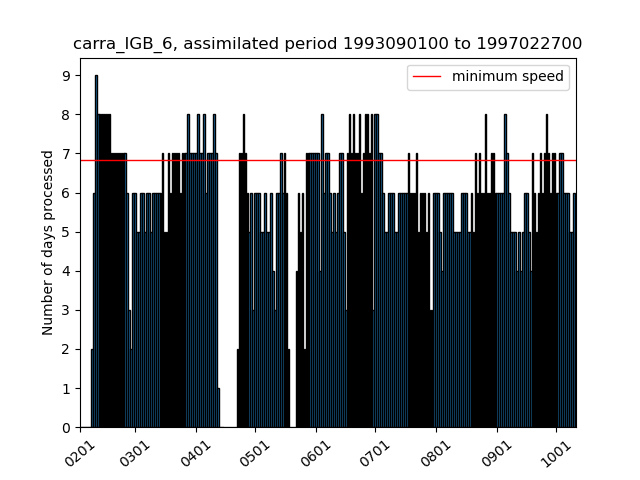
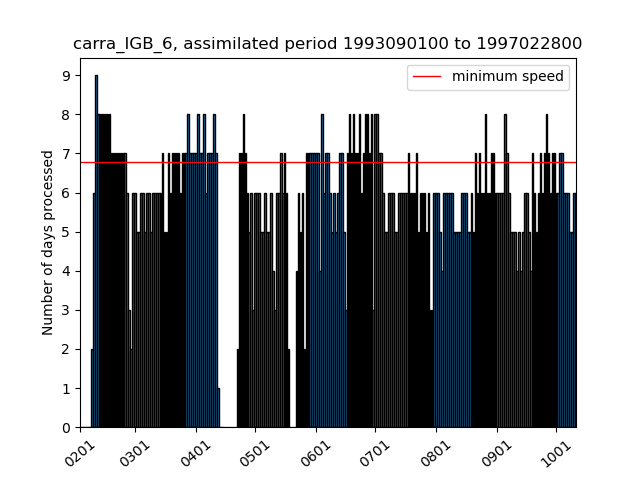
update repo

Changed region(s): [[0.125, 0.3125, 0.9062, 0.3438], [0.8438, 0.0625, 0.875, 0.0938]]

diff --git a/current_state_sims.html b/current_state_sims.html
@@ -2,18 +2,18 @@
 <h1>Estimated completion dates and simulation speeds</h1>
 <p>Stream (production) completion date based on 30d (7d) moving avg speed</p>
 <p><a href="https://docs.google.com/document/d/1zDKAxuEXYnWWYzT3SZnZwY5WW8nodUMeYRjAGz46coc/edit#">Details of the calculation of the completion dates</a></p>
-<p>Last update: 2021/10/12 00:38:07 UTC</p>
+<p>Last update: 2021/10/12 06:43:03 UTC</p>
 <p>Total progress CARRA: 99.55% <a href="https://hirlam.org/portal/CARRA/Progress/GanntChart_CARRA.html"> (see detailed progress meter in Gantt chart) </a></p>
 <p>Total progress PANARCTIC: 91.67% </p>
 <p><a href="https://hirlam.org/portal/CARRA/Progress/waiting_times.html"> Queue waiting times for all streams</a></p>
 <p><a href="https://hirlam.org/portal/CARRA/Progress/mars_status.html"> MARS archive throughput </a></p>
 <html><table border="1"><tr><th>expId</th><th>Current assimilated date</th><th>End date of stream </th><th> Completion date</th><th> Avg. throughput (7d) </th> <th>Avg. throughput (30d) </th> <th> Remarks</tr>
-<tr bgcolor="#33FF38"><td>carra_NE_3</td><td>2021070100</td><td>2021063021</td><td>2021101111</td><td>(0.14) days/day</td><td>(1.77) days/day</td><td>Stream finished</tr>
+<tr bgcolor="#33FF38"><td>carra_NE_3</td><td>2021070100</td><td>2021063021</td><td>2021101117</td><td>(0.14) days/day</td><td>(1.77) days/day</td><td>Stream finished</tr>
 <tr bgcolor="#33FF38"><td>carra_NE_4</td><td>1992090100</td><td>1992083021</td><td>Finished on 20210824</td><td>(0.0) days/day</td><td>(0.0) days/day</td><td>Stream finished</tr>
 <tr bgcolor="#33FF38"><td>carra_NE_5</td><td>1994090100</td><td>1994083021</td><td>Finished on 20210824</td><td>(0.0) days/day</td><td>(0.0) days/day</td><td>Stream finished</tr>
-<tr bgcolor="#33FF38"><td>carra_NE_6</td><td>1997070100</td><td>1997063021</td><td>2021101014</td><td>(0.0) days/day</td><td>(0.7) days/day</td><td>Stream finished</tr>
-<tr bgcolor="#33FF38"><td>carra_IGB_3</td><td>2021070100</td><td>2021063021</td><td>2021101111</td><td>(0.14) days/day</td><td>(1.87) days/day</td><td>Stream finished</tr>
+<tr bgcolor="#33FF38"><td>carra_NE_6</td><td>1997070100</td><td>1997063021</td><td>2021101020</td><td>(0.0) days/day</td><td>(0.7) days/day</td><td>Stream finished</tr>
+<tr bgcolor="#33FF38"><td>carra_IGB_3</td><td>2021070100</td><td>2021063021</td><td>2021101117</td><td>(0.14) days/day</td><td>(1.87) days/day</td><td>Stream finished</tr>
 <tr bgcolor="#33FF38"><td>carra_IGB_4</td><td>1992090100</td><td>1992083021</td><td>Finished on 20210907</td><td>(0.0) days/day</td><td>(0.0) days/day</td><td>Stream finished</tr>
-<tr bgcolor="#33FF38"><td>carra_IGB_5</td><td>1994090100</td><td>1994083021</td><td>2021101106</td><td>(0.0) days/day</td><td>(2.7) days/day</td><td>Stream finished</tr>
-<tr bgcolor="#FFA500"><td>carra_IGB_6</td><td>1997022700</td><td>1997063021</td><td>2021110115</td><td>(5.57) days/day</td><td>(5.97) days/day</td><td>Completion date after project end (20211031)</tr>
-<tr bgcolor="#33FF38"><td>carra_pan</td><td>2018090100</td><td>2018090100</td><td>2021101200</td><td>(1.86) days/day</td><td>(3.03) days/day</td><td>Stream finished</tr>
+<tr bgcolor="#33FF38"><td>carra_IGB_5</td><td>1994090100</td><td>1994083021</td><td>2021101112</td><td>(0.0) days/day</td><td>(2.7) days/day</td><td>Stream finished</tr>
+<tr bgcolor="#FFA500"><td>carra_IGB_6</td><td>1997022800</td><td>1997063021</td><td>2021110114</td><td>(5.71) days/day</td><td>(6.0) days/day</td><td>Completion date after project end (20211031)</tr>
+<tr bgcolor="#33FF38"><td>carra_pan</td><td>2018090100</td><td>2018090100</td><td>2021101206</td><td>(1.86) days/day</td><td>(3.03) days/day</td><td>Stream finished</tr>
